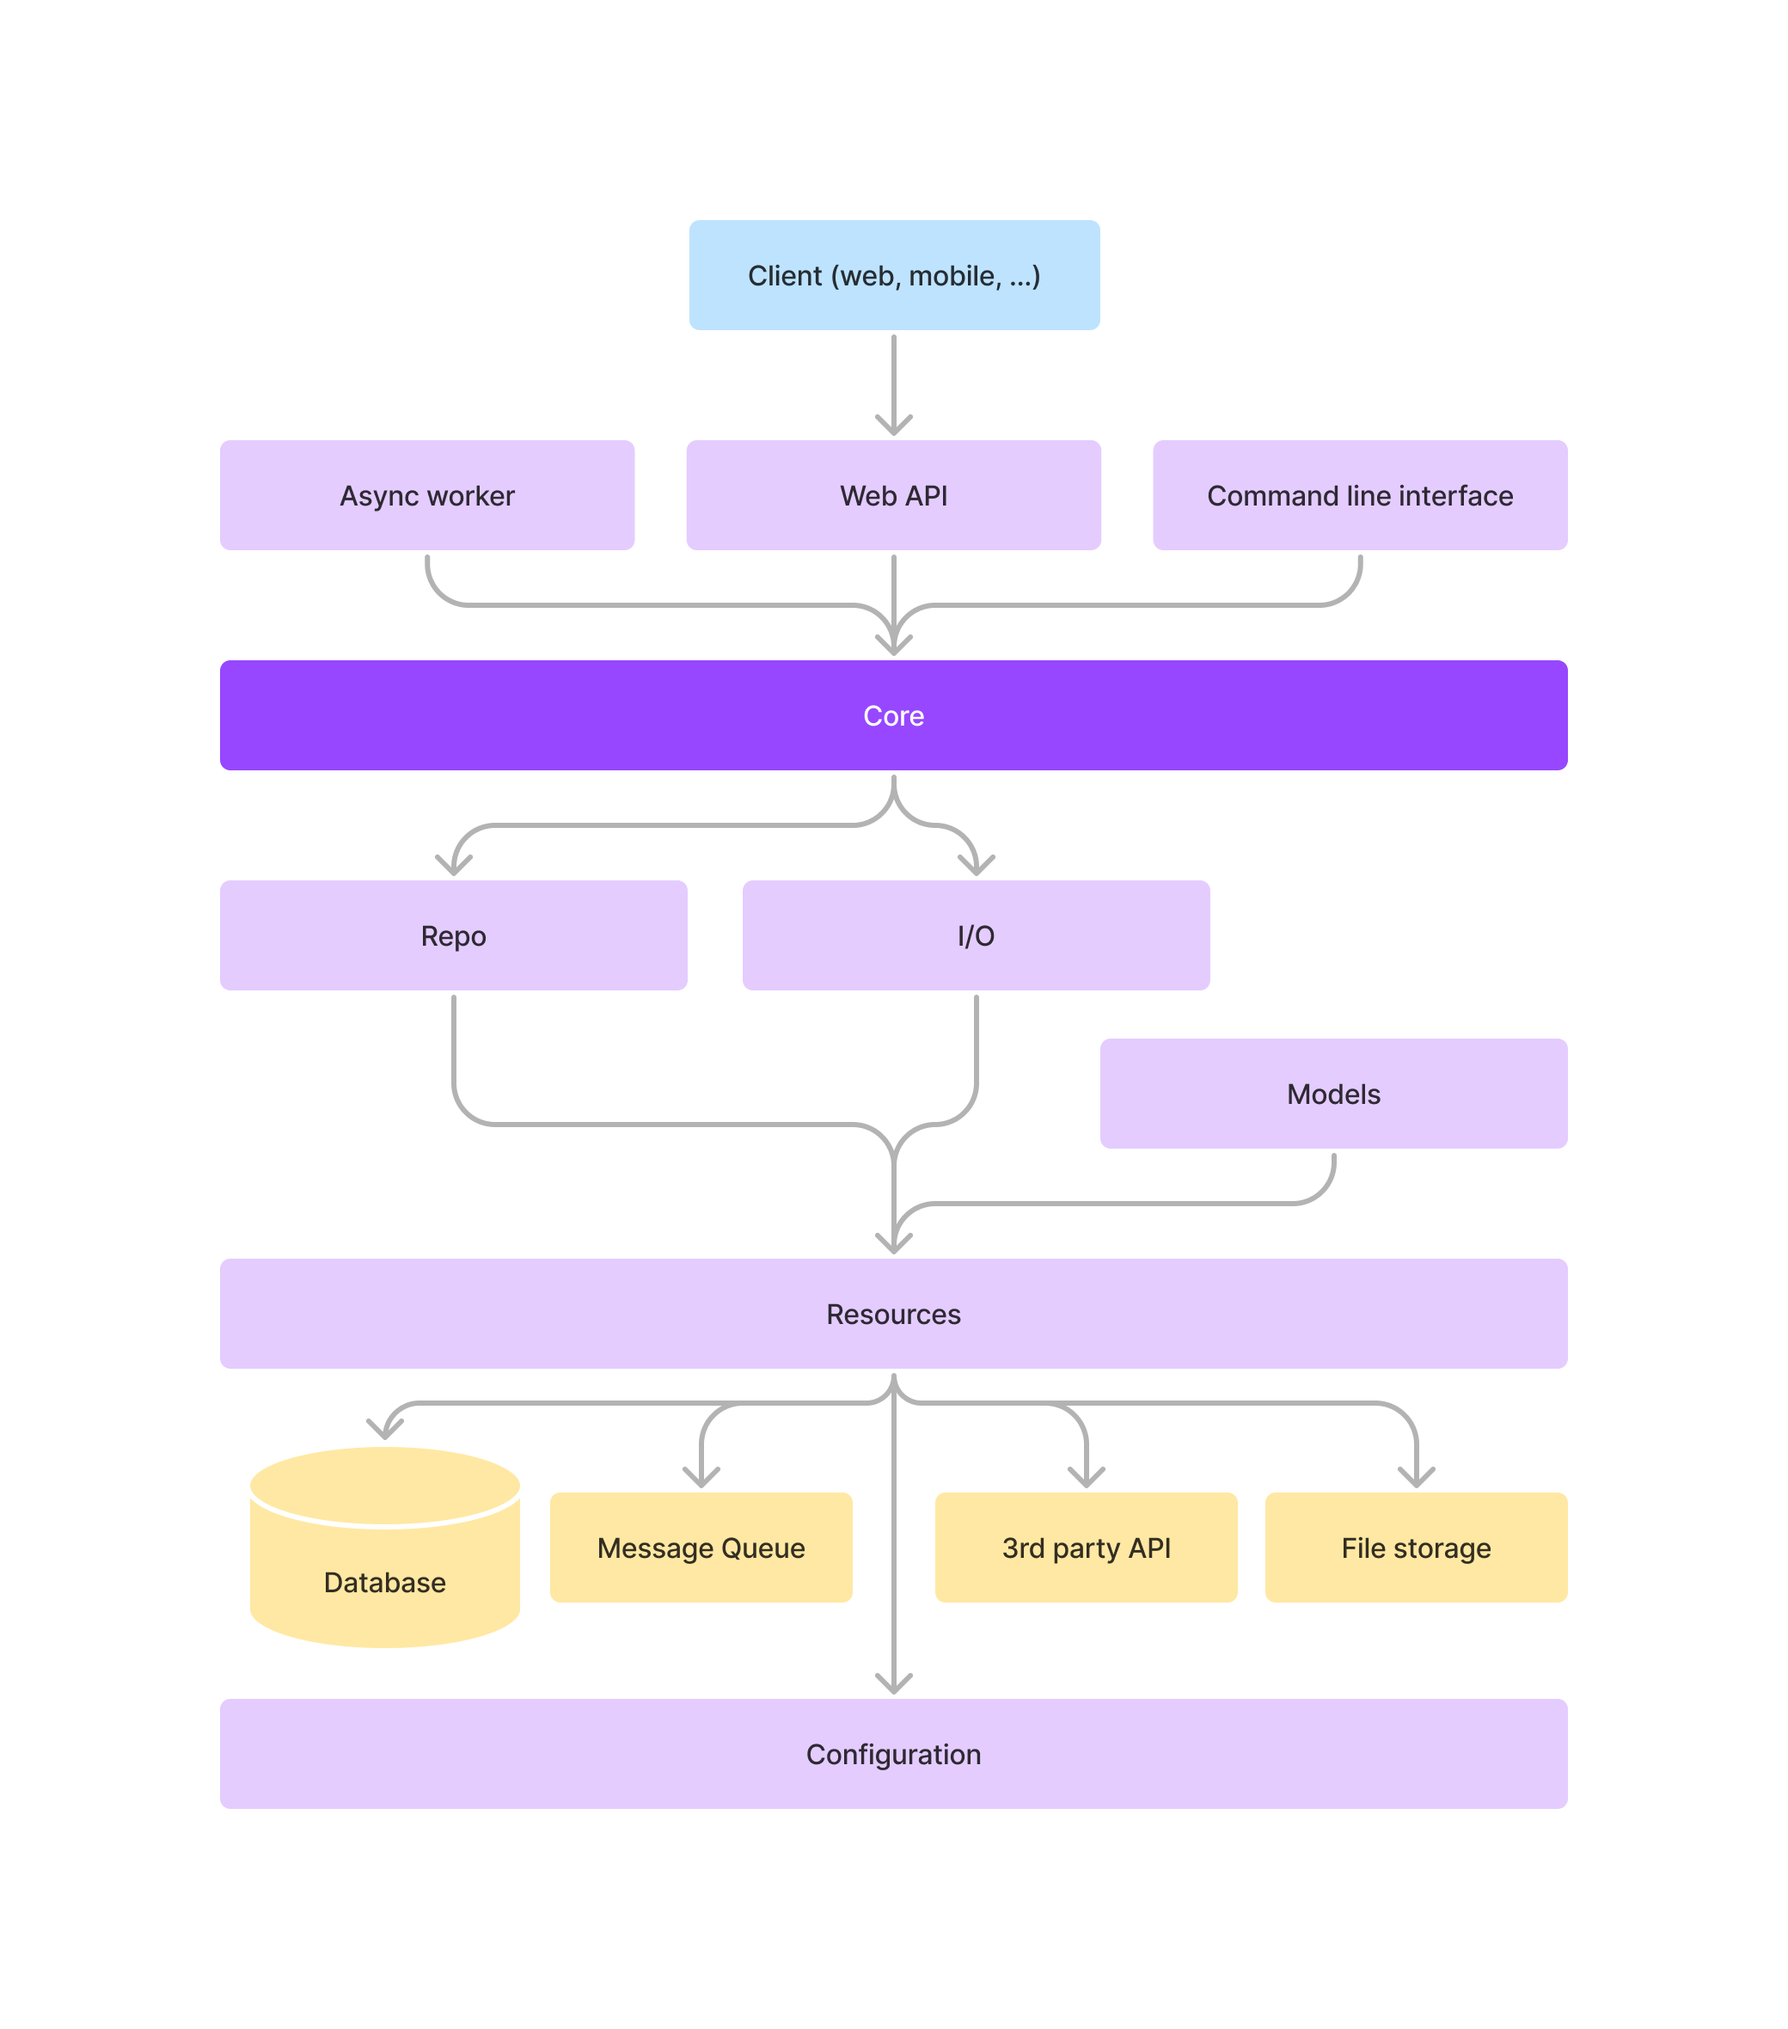
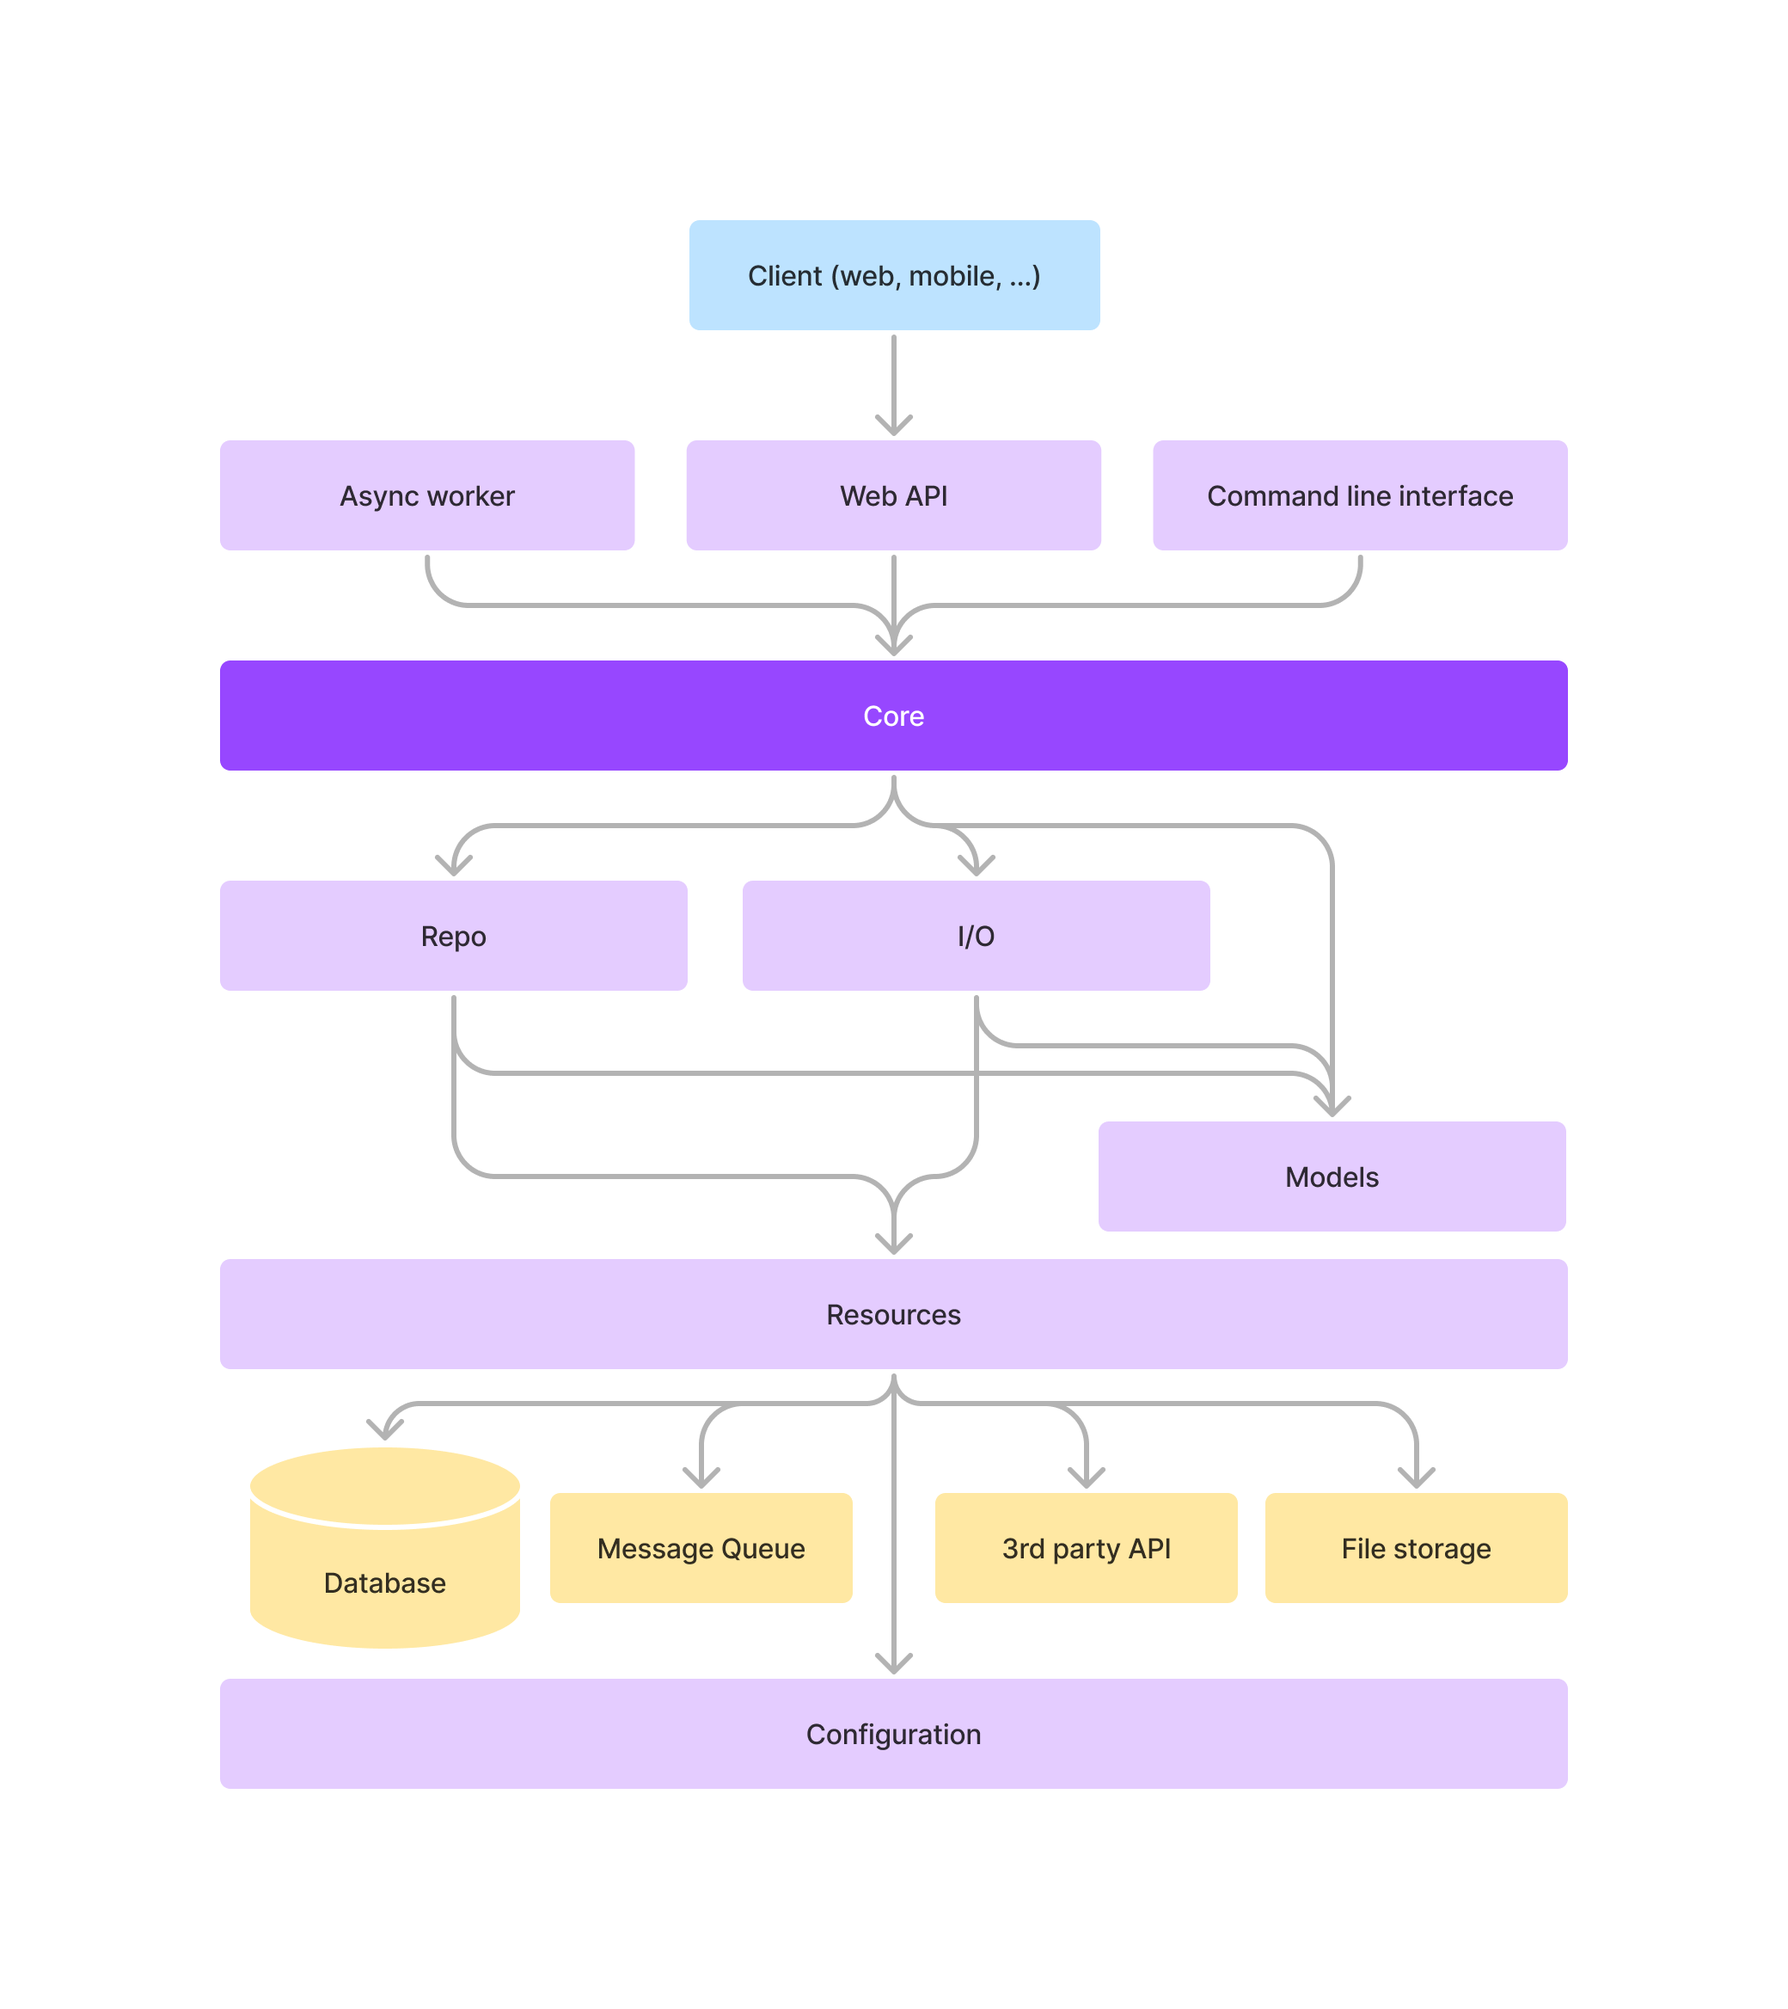
readme

Changed region(s): [[0.125, 0.1875, 0.875, 0.8438], [0.4375, 0.125, 0.5625, 0.1562], [0.4375, 0.8438, 0.5312, 0.875]]

diff --git a/README.md b/README.md
@@ -7,105 +7,198 @@ Modular Web Application Kit
 ![MoWaKi Architecture](https://raw.githubusercontent.com/rshk/mowaki/mowaki-2.0/.files/MoWaKi%20Architecture.png)
 
 
-## Project scaffolding
+### The configuration layer
 
-### The ``app`` folder
+The configuration layer (defined in `app.config`) is used to retrieve
+(and validate) configuration from environment variables, and make it
+available to the rest of the code using a `ContextVar`.
 
-Contains the main runtime code for the backend application.
-
-#### Package: ``app.framework``
-
-Framework-level utilities. Most of this can probably be moved to a 3rd-party package.
-
-Modules in here can be imported from anywhere in the codebase.
+- Public interface: `self`
 
 
-#### Package: ``app.lib``
+### The resources layer
 
-Misc libraries. Can be used by the whole codebase. Most of this code could reside in 3rd party packages.
+The resources layer (defined in `app.resources`) is responsible for
+instantiating clients to all the external services being used.
 
-Depends on: ``app.framework``.
+This includes:
 
+- databases
+- message queues
+- smtp providers
+- 3rd party web APIs
 
-#### Package: ``app.root``
+Note that these clients will generally *not* be accessed directly by
+the business logic, but instead they'll be used through the Repo and /
+or IO layers described below.
 
-"Root" utilities for the app. For example, configuration and resource context management.
-
-
-#### Package: ``app.models``
-
-(Or types?) Definition of the base types used in the app. Can be used by the whole codebase.
-
-Depends on: ``app.framework``, ``app.lib``.
-
-
-#### Package: ``app.io``
-
-Low-level resource access utilities. Examples: database connections, 3rd party API clients.
-
-Depends on: ``app.framework``, ``app.lib``, ``app.models``.
+- Depends on: `configuration`
+- Public interface: `self`
 
 
-#### Package: ``app.repo``
+### The repo layer
 
-Repo functions. Provide an abstraction over the lower level resources.
+The repo layer (`app.repo.*`) provides abstraction over permanent storage,
+eg. databases and file storage, considered "internal" to the
+application.
 
-Depends on: ``app.io`` (and ``app.framework``, ``app.lib``, ``app.models``).
+Sub-modules and the root level of sub-packages are considered public
+interface, unless their name starts with an underscore (`_`).
 
-
-#### Package: ``app.core``
-
-Core business logic.
-
-Depends on: ``app.repo``, ``app.framework``, ``app.lib``, ``app.models``.
-
-Shouldn't access ``app.io`` directly unless it really makes sense to
-do so (eg. accessing a 3rd party library with no need for any layer in
-between).
+- Depends on: `resources`, `models`, `config`
+- Used by: `core`
+- Public interface: `submodules`
 
 
-#### Package: ``app.webapi``
+### The I/O layer
 
-Web API interface.
+The I/O layer (`app.io.*`) provides abstraction over access to
+3rd-party services, eg. SMTP servers or Web APIs.
 
-Depends on: ``app.core``, ``app.framework``, ``app.lib``, ``app.models``.
+Sub-modules and the root level of sub-packages are considered public
+interface, unless their name starts with an underscore (`_`).
 
-
-#### Package: ``app.cli``
-
-Command line interface.
-
-Depends on: ``app.core``, ``app.framework``, ``app.lib``, ``app.models``.
-
-
-### The ``tests`` folder
-
-Contains tests for the backend app.
-
-#### Module: ``tests.conftest``
-
-Configuration for ``pytest``. Mainly loads fixtures from ``tests.fixtures``
-
-#### Package: ``tests.fixtures``
-
-Fixture functions for the tests. Includes a ``factory`` fixture to access factories.
-
-#### Package: ``tests.factories``
-
-Factories for database objects, if it makes sense for the project.
+- Depends on: `resources`, `models`, `config`
+- Used by: `core`
+- Public interface: `submodules`
 
 
-### The ``web`` folder
+### The Core layer
 
-Contains the web frontend code.
+The Core layer (`app.core.*`) contains the actual business logic of the application.
 
-TODO (which frontend should we use btw? Probably React but what framework?)
+It can be structured in any way that fits the domain, and provides the
+main library interface into the application, which upper layers can
+use to expose functionality through a number of interfaces.
+
+- Depends on: `repo`, `io`, `models`, `config`
+- Used by: interface layers (`webapp`, `cli`, ...)
+- Public interface: `tree` (or anything that makes sense for the
+  particular application)
 
 
-## Configuration files
+### The Web API layer
+
+Provides a Web API interface (GraphQL, but RESTful can also be used,
+or any other type of web API format, even at the same time) into the
+application business logic.
+
+
+### The command-line interface
+
+Typically used for administrative commands (eg. creating the first
+admin user on a production server).
+
+Core functions are typically invoked as a special "superuser", which
+is not tied to an actual user in the database, and provide extra
+privileges not normally accessible to the web application users.
+
+
+### Async workers
+
+Async workers are typically separate processes that listen for
+messages or events on some type of queue, and execute tasks
+accordingly.
+
+Worker processes can be create wherever it makes sense (eg. in an
+`app.workers` package), and extra services can be added to the
+`docker-compose.yml` file to start the processes.
+
+
+### Models
+
+The models package `app.models` contains all the domain objects
+(usually data structures defined using the `dataclasses` module) that
+are used to represent data inside the application.
+
+- Used by: `core`, `repo`, `io`
+- Public interface: `tree`
+
+
+### Library code
+
+The `app.lib` package can contain any generic code that is not
+strictly part of the business logic.
+
+A good rule of thumb is that code inside this package could be
+eventually split into a completely separate library.
+
+- Can be used (sensibly) by any part of the codebase
+- Depends on: no other part of the codebase a part from within `app.lib` itself
+- Public interface: any
+
+
+### Definition: public interface
+
+- `self`: any public object defined in the module itself, or in the
+  top-level `__init__.py` for packages.
+
+- `submodules`: public objects defined in first-level modules or
+  packages with a name not starting with `_` are considered public.
+
+- `tree`: any public objects contained in any sub-module or
+  sub-package not starting with `_` are considered public.
+
+
+
+
+
+
+
 
 
 ## Build and run configuration (prod, testing, dev)
 
 - Docker and docker-compose
 - Utilities from the ``bin`` folder
+
+
+
+
+
+
+
+## Development
+
+### Installation
+
+
+### Configuration
+
+
+### Database migrations
+
+
+### Running a development server
+
+The development setup relies on a `.env` file to pass environment
+variables to the application via `docker compose`.
+
+
+## Testing
+
+
+### Running the test suite
+
+
+### Writing tests
+
+
+## Debugging
+
+
+## Integrating a front-end
+
+
+## Production
+
+### Installation
+
+
+### Configuration
+
+
+### Database migrations
+
+
+### Running a production server
